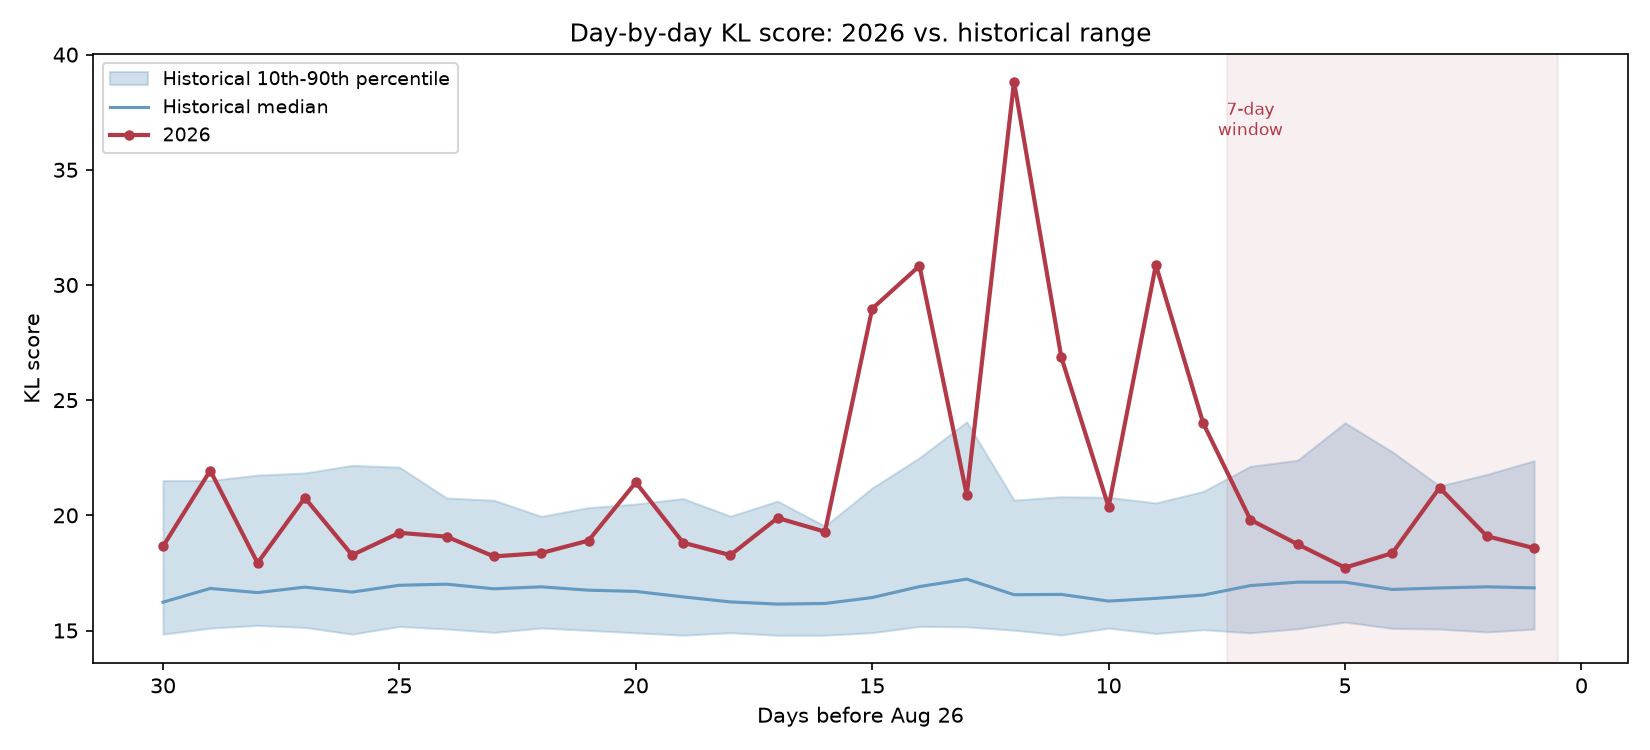
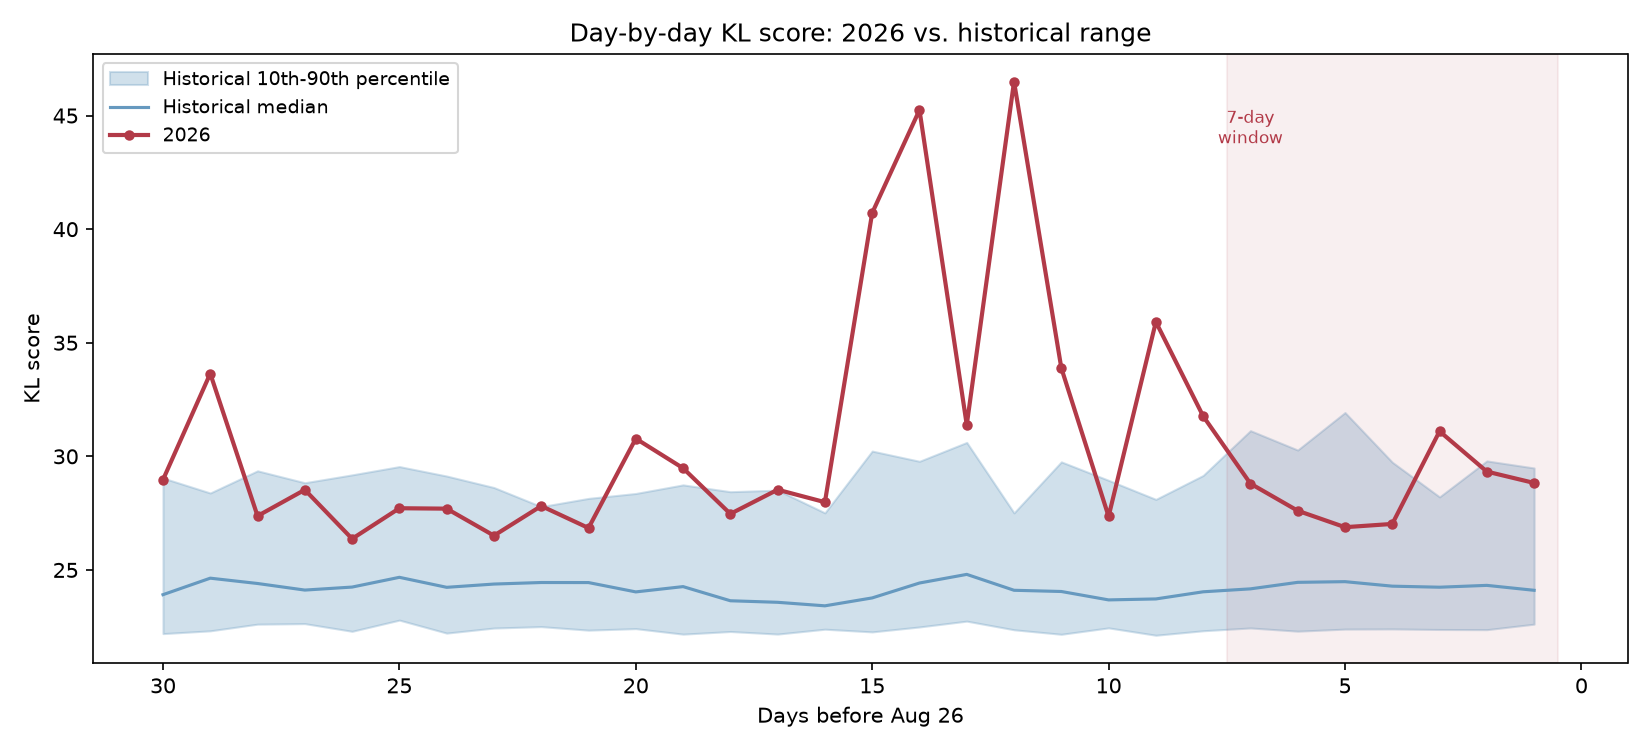
Update Method B to beta=0.1 after multiseed robustness check, update docs

diff --git a/scripts/multiseed_robustness.py b/scripts/multiseed_robustness.py
@@ -1,0 +1,202 @@
+"""
+multiseed_robustness.py
+
+Checks whether the hyperparameter and anomaly-score selection from
+compare_hyperparameters.py is stable across different train/validation
+splits, or whether it happened to depend on the one random seed used
+originally. Same grid, same discriminability-based selection criterion,
+repeated across several seeds -- each seed gets its own train/validation
+split, its own normalization stats, and its own full sweep.
+
+This does NOT overwrite the production model files in models/. Its job is
+to report on robustness, not to re-select the model score_anomaly.py uses.
+If this run changes which configuration should be considered "best," that
+is a decision to make deliberately (re-running train_vae.py and
+score_anomaly.py with the new choice), not something this script does
+automatically.
+
+Requirements
+------------
+    pip install torch numpy pandas matplotlib
+Must be run from the same scripts/ folder as train_vae.py and
+compare_hyperparameters.py (imports from both).
+"""
+
+import time
+from pathlib import Path
+
+import numpy as np
+import pandas as pd
+import matplotlib.pyplot as plt
+import torch
+from torch.utils.data import DataLoader
+
+from train_vae import ConvVAE, FieldsDataset, load_all_years, split_years, stack_years, DEVICE, BATCH_SIZE
+from compare_hyperparameters import (
+    train_one_config, compute_per_sample_scores, effect_size,
+    BETA_VALUES, LATENT_DIMS, NUM_EPOCHS_SWEEP, KL_COLLAPSE_THRESHOLD,
+    SYNTHETIC_SHIFT_MAGNITUDES_DEGC, SELECTION_SHIFT_MAGNITUDE, N_VALIDATION_YEARS,
+)
+
+SCRIPT_DIR = Path(__file__).resolve().parent
+PROJECT_ROOT = SCRIPT_DIR.parent
+FIGURES_DIR = PROJECT_ROOT / "figures"
+RESULTS_DIR = PROJECT_ROOT / "results"
+FIGURES_DIR.mkdir(exist_ok=True)
+RESULTS_DIR.mkdir(exist_ok=True)
+
+SEEDS = [42, 1, 7, 123, 2024]
+
+# The configuration currently in production (models/vae_best.pt), so its
+# consistency across seeds can be checked specifically, not just whichever
+# configuration happens to win each time.
+PRODUCTION_BETA = 0.1
+PRODUCTION_LATENT_DIM = 8
+PRODUCTION_SCORE_TYPE = "kl"
+
+
+def print_section(title):
+    print("\n" + "=" * 78)
+    print(title)
+
+
+def run_one_seed(data_by_year, seed):
+    training_years, validation_years = split_years(data_by_year, N_VALIDATION_YEARS, seed)
+    train_fields_raw = stack_years(data_by_year, training_years)
+    val_fields_raw = stack_years(data_by_year, validation_years)
+
+    pixel_mean = np.nanmean(train_fields_raw, axis=0)
+    pixel_std = np.nanstd(train_fields_raw, axis=0)
+    pixel_std = np.where(pixel_std < 1e-6, 1e-6, pixel_std)
+    train_fields_norm = np.nan_to_num((train_fields_raw - pixel_mean) / pixel_std, nan=0.0)
+    val_fields_norm = np.nan_to_num((val_fields_raw - pixel_mean) / pixel_std, nan=0.0)
+
+    train_loader = DataLoader(FieldsDataset(train_fields_norm), batch_size=BATCH_SIZE, shuffle=True)
+    val_loader = DataLoader(FieldsDataset(val_fields_norm), batch_size=BATCH_SIZE, shuffle=False)
+    input_size = train_fields_raw.shape[-1]
+
+    seed_results = []
+    for beta in BETA_VALUES:
+        for latent_dim in LATENT_DIMS:
+            model, history = train_one_config(latent_dim, beta, NUM_EPOCHS_SWEEP, train_loader, val_loader, input_size)
+            final_val_kl = np.mean(history["val_kl"][-5:])
+            collapsed = final_val_kl < KL_COLLAPSE_THRESHOLD
+
+            normal_recon, normal_kl, normal_combined = compute_per_sample_scores(model, val_fields_norm)
+            row = {"seed": seed, "beta": beta, "latent_dim": latent_dim, "posterior_collapse_flag": collapsed}
+
+            for shift in SYNTHETIC_SHIFT_MAGNITUDES_DEGC:
+                shifted_raw = val_fields_raw + shift
+                shifted_norm = np.nan_to_num((shifted_raw - pixel_mean) / pixel_std, nan=0.0)
+                anom_recon, anom_kl, anom_combined = compute_per_sample_scores(model, shifted_norm)
+                row[f"d_recon_{shift}degc"] = effect_size(anom_recon, normal_recon)
+                row[f"d_kl_{shift}degc"] = effect_size(anom_kl, normal_kl)
+                row[f"d_combined_{shift}degc"] = effect_size(anom_combined, normal_combined)
+
+            seed_results.append(row)
+
+    return pd.DataFrame(seed_results)
+
+
+def main():
+    data_by_year = load_all_years()
+
+    print_section(f"Running the full sweep across {len(SEEDS)} seeds: {SEEDS}")
+    print(f"Each seed gets its own train/validation split, own normalization, own {len(BETA_VALUES) * len(LATENT_DIMS)}-configuration sweep.")
+
+    all_results = []
+    start_time = time.time()
+    for seed in SEEDS:
+        print(f"\n--- Seed {seed} ---")
+        seed_df = run_one_seed(data_by_year, seed)
+        all_results.append(seed_df)
+    elapsed_minutes = (time.time() - start_time) / 60
+    print(f"\nAll seeds complete. Elapsed: {elapsed_minutes:.1f} minutes.")
+
+    combined_df = pd.concat(all_results, ignore_index=True)
+    combined_df.to_csv(RESULTS_DIR / "vae_multiseed_robustness.csv", index=False)
+    print(f"Saved full results to {RESULTS_DIR / 'vae_multiseed_robustness.csv'}")
+
+    print_section("Winning configuration per seed")
+    s = SELECTION_SHIFT_MAGNITUDE
+    score_cols = [f"d_recon_{s}degc", f"d_kl_{s}degc", f"d_combined_{s}degc"]
+
+    winners = []
+    for seed in SEEDS:
+        seed_df = combined_df[combined_df["seed"] == seed]
+        non_collapsed = seed_df[~seed_df["posterior_collapse_flag"]]
+        if non_collapsed.empty:
+            print(f"  seed {seed}: every configuration showed possible posterior collapse, skipping")
+            continue
+        best_per_score = {col: non_collapsed.loc[non_collapsed[col].idxmax()] for col in score_cols}
+        best_col = max(score_cols, key=lambda c: best_per_score[c][c])
+        best_row = best_per_score[best_col]
+        score_type = best_col.replace(f"_{s}degc", "").replace("d_", "")
+        print(f"  seed {seed}: winner = {score_type}, beta={best_row['beta']}, "
+              f"latent_dim={int(best_row['latent_dim'])}, d={best_row[best_col]:.2f}")
+        winners.append({"seed": seed, "score_type": score_type, "beta": best_row["beta"],
+                         "latent_dim": int(best_row["latent_dim"]), "effect_size": best_row[best_col]})
+
+    winners_df = pd.DataFrame(winners)
+
+    print_section("How consistent is the winning choice across seeds")
+    score_type_counts = winners_df["score_type"].value_counts()
+    print("Score type win counts:")
+    print(score_type_counts.to_string())
+
+    combo_counts = winners_df.groupby(["score_type", "beta", "latent_dim"]).size().sort_values(ascending=False)
+    print("\nFull (score_type, beta, latent_dim) win counts:")
+    print(combo_counts.to_string())
+
+    print_section(f"Production configuration check: {PRODUCTION_SCORE_TYPE}, "
+                  f"beta={PRODUCTION_BETA}, latent_dim={PRODUCTION_LATENT_DIM}")
+    prod_col = f"d_{PRODUCTION_SCORE_TYPE}_{s}degc"
+    prod_rows = combined_df[(combined_df["beta"] == PRODUCTION_BETA) & (combined_df["latent_dim"] == PRODUCTION_LATENT_DIM)]
+    print("Production configuration's KL effect size in each seed's own validation split:")
+    for _, row in prod_rows.iterrows():
+        is_winner = ((winners_df["seed"] == row["seed"]) & (winners_df["score_type"] == PRODUCTION_SCORE_TYPE) &
+                     (winners_df["beta"] == PRODUCTION_BETA) & (winners_df["latent_dim"] == PRODUCTION_LATENT_DIM)).any()
+        marker = " (won this seed)" if is_winner else ""
+        print(f"  seed {int(row['seed'])}: d = {row[prod_col]:.2f}{marker}")
+
+    mean_prod_effect = prod_rows[prod_col].mean()
+    std_prod_effect = prod_rows[prod_col].std()
+    print(f"\nProduction config across all seeds: mean d = {mean_prod_effect:.2f}, std = {std_prod_effect:.2f}")
+    if std_prod_effect < mean_prod_effect * 0.3:
+        print("Relatively stable across seeds -- the production configuration's discriminability "
+              "does not appear to be an artifact of the original seed choice.")
+    else:
+        print("Notable variation across seeds -- the production configuration's discriminability "
+              "is somewhat seed-dependent. Report this honestly rather than treating the single-seed "
+              "result as a precise number.")
+
+    # --- Plot ---
+    fig, (ax1, ax2) = plt.subplots(1, 2, figsize=(13, 5))
+
+    score_type_counts.reindex(["kl", "combined", "recon"], fill_value=0).plot(
+        kind="bar", ax=ax1, color=["#6699BF", "#8B5A2B", "#B23A48"]
+    )
+    ax1.set_ylabel(f"Number of seeds (of {len(SEEDS)}) where this score type won")
+    ax1.set_title("Which anomaly score type wins, by seed")
+    ax1.set_xticklabels(ax1.get_xticklabels(), rotation=0)
+
+    ax2.plot(prod_rows["seed"].astype(str), prod_rows[prod_col], marker="o", color="#6699BF")
+    ax2.axhline(0.5, color="#B23A48", linestyle="--", linewidth=0.8)
+    ax2.text(0, 0.55, "medium effect (d=0.5)", fontsize=8, color="#B23A48")
+    ax2.set_xlabel("Seed")
+    ax2.set_ylabel("KL effect size (Cohen's d)")
+    ax2.set_title(f"Production config (beta={PRODUCTION_BETA}, latent={PRODUCTION_LATENT_DIM}) "
+                  f"across seeds")
+
+    fig.tight_layout()
+    fig.savefig(FIGURES_DIR / "vae_multiseed_robustness.png", dpi=150)
+    print(f"\nSaved figure to {FIGURES_DIR / 'vae_multiseed_robustness.png'}")
+
+    print_section("DONE")
+    print("This is a robustness check, not a re-selection. The production model in models/ is unchanged. "
+          "Decide separately whether these results change what should be reported as the primary "
+          "configuration.")
+
+
+if __name__ == "__main__":
+    main()

diff --git a/scripts/train_vae.py b/scripts/train_vae.py
@@ -58,7 +58,7 @@ LATENT_DIM = 8
 NUM_EPOCHS = 100
 BATCH_SIZE = 64
 LEARNING_RATE = 1e-3
-BETA = 0.5                 # weight on the KL divergence term. Selected via compare_hyperparameters.py's
+BETA = 0.1                 # weight on the KL divergence term. Selected via compare_hyperparameters.py's
                             # synthetic-anomaly discriminability sweep -- NOT the default beta=1.0 a
                             # standard VAE recipe would suggest. At beta=1.0, KL-based anomaly
                             # discriminability was measurably weaker (d=0.80 vs 0.96 at this site's
